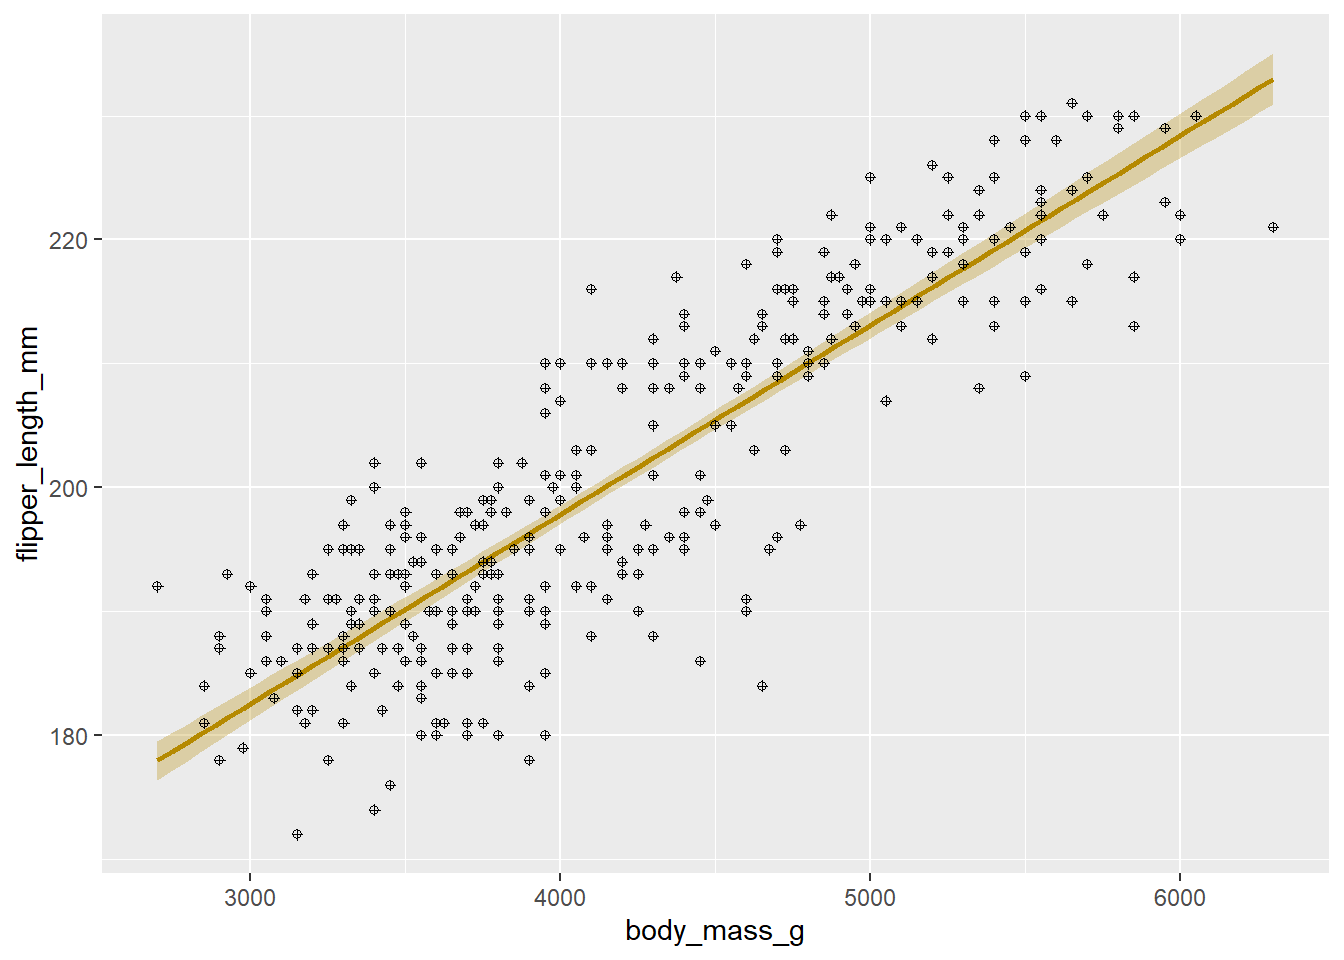
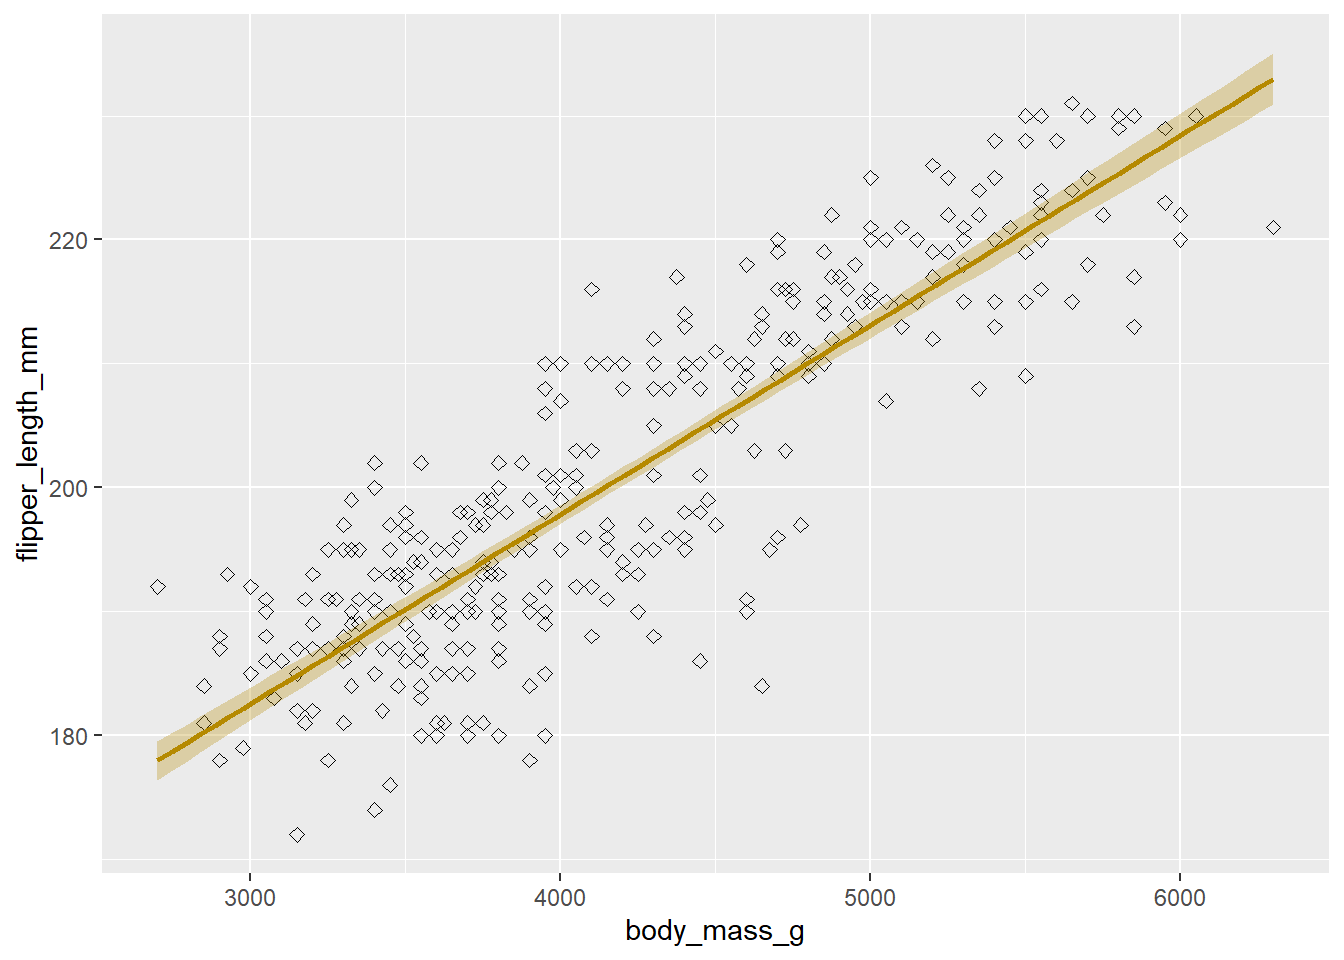
Built site for gh-pages

diff --git a/plotting.html b/plotting.html
@@ -383,6 +383,9 @@ pre > code.sourceCode > span > a:first-child::before { text-decoration: underlin
   <li><a href="#layer-1-the-data" id="toc-layer-1-the-data" class="nav-link" data-scroll-target="#layer-1-the-data">Layer 1: the data</a></li>
   <li><a href="#layer-2-the-geometries" id="toc-layer-2-the-geometries" class="nav-link" data-scroll-target="#layer-2-the-geometries">Layer 2: the geometries</a></li>
   <li><a href="#layer-3-the-scaling" id="toc-layer-3-the-scaling" class="nav-link" data-scroll-target="#layer-3-the-scaling">Layer 3: the scaling</a></li>
+  <li><a href="#layer-4-labels" id="toc-layer-4-labels" class="nav-link" data-scroll-target="#layer-4-labels">Layer 4: labels</a></li>
+  <li><a href="#layer-5-coordinates-and-transformations" id="toc-layer-5-coordinates-and-transformations" class="nav-link" data-scroll-target="#layer-5-coordinates-and-transformations">Layer 5: coordinates and transformations</a></li>
+  <li><a href="#layer-6-theme" id="toc-layer-6-theme" class="nav-link" data-scroll-target="#layer-6-theme">Layer 6: theme</a></li>
   </ul></li>
   </ul>
 </nav>
@@ -478,8 +481,8 @@ pre > code.sourceCode > span > a:first-child::before { text-decoration: underlin
 <summary>Answer</summary>
 <div class="sourceCode cell-code" id="cb5"><pre class="sourceCode numberSource r number-lines code-with-copy"><code class="sourceCode r"><span id="cb5-1"><a href="#cb5-1"></a><span class="fu">ggplot</span>(penguins, <span class="fu">aes</span>(<span class="at">x =</span> body_mass_g, <span class="at">y =</span> flipper_length_mm)) <span class="sc">+</span></span>
 <span id="cb5-2"><a href="#cb5-2"></a>    <span class="co"># Geometries</span></span>
-<span id="cb5-3"><a href="#cb5-3"></a>    <span class="fu">geom_smooth</span>(<span class="at">method =</span> <span class="st">"lm"</span>, <span class="at">formula =</span> <span class="st">"y ~ x"</span>, <span class="at">colour =</span> <span class="st">"#B58900"</span>, <span class="at">fill =</span> <span class="st">"#B58900"</span>, <span class="at">alpha =</span> <span class="fl">0.3</span>) <span class="sc">+</span></span>
-<span id="cb5-4"><a href="#cb5-4"></a>    <span class="fu">geom_point</span>(<span class="at">shape =</span> <span class="dv">10</span>)</span></code><button title="Copy to Clipboard" class="code-copy-button"><i class="bi"></i></button></pre></div>
+<span id="cb5-3"><a href="#cb5-3"></a>    <span class="fu">geom_point</span>(<span class="at">shape =</span> <span class="dv">5</span>) <span class="sc">+</span></span>
+<span id="cb5-4"><a href="#cb5-4"></a>    <span class="fu">geom_smooth</span>(<span class="at">method =</span> <span class="st">"lm"</span>, <span class="at">formula =</span> <span class="st">"y ~ x"</span>, <span class="at">colour =</span> <span class="st">"#B58900"</span>, <span class="at">fill =</span> <span class="st">"#B58900"</span>, <span class="at">alpha =</span> <span class="fl">0.3</span>) </span></code><button title="Copy to Clipboard" class="code-copy-button"><i class="bi"></i></button></pre></div>
 </details>
 <div class="cell-output cell-output-stderr">
 <pre><code>Warning: Removed 2 rows containing non-finite outside the scale range
@@ -521,15 +524,15 @@ Note
 <summary>Answer</summary>
 <div class="sourceCode cell-code" id="cb8"><pre class="sourceCode numberSource r number-lines code-with-copy"><code class="sourceCode r"><span id="cb8-1"><a href="#cb8-1"></a><span class="fu">ggplot</span>(penguins, <span class="fu">aes</span>(<span class="at">x =</span> body_mass_g, <span class="at">y =</span> flipper_length_mm)) <span class="sc">+</span></span>
 <span id="cb8-2"><a href="#cb8-2"></a>    <span class="co"># Geometries</span></span>
-<span id="cb8-3"><a href="#cb8-3"></a>    <span class="fu">geom_smooth</span>(<span class="at">method =</span> <span class="st">"lm"</span>, <span class="at">formula =</span> <span class="st">"y ~ x"</span>, <span class="at">colour =</span> <span class="st">"#B58900"</span>, <span class="at">fill =</span> <span class="st">"#B58900"</span>, <span class="at">alpha =</span> <span class="fl">0.3</span>) <span class="sc">+</span></span>
-<span id="cb8-4"><a href="#cb8-4"></a>    <span class="fu">geom_point</span>(<span class="at">shape =</span> <span class="dv">10</span>) <span class="sc">+</span></span>
+<span id="cb8-3"><a href="#cb8-3"></a>    <span class="fu">geom_point</span>(<span class="at">shape =</span> <span class="dv">5</span>) <span class="sc">+</span></span>
+<span id="cb8-4"><a href="#cb8-4"></a>    <span class="fu">geom_smooth</span>(<span class="at">method =</span> <span class="st">"lm"</span>, <span class="at">formula =</span> <span class="st">"y ~ x"</span>, <span class="at">colour =</span> <span class="st">"#B58900"</span>, <span class="at">fill =</span> <span class="st">"#B58900"</span>, <span class="at">alpha =</span> <span class="fl">0.3</span>) <span class="sc">+</span></span>
 <span id="cb8-5"><a href="#cb8-5"></a>    <span class="co"># Scaling</span></span>
 <span id="cb8-6"><a href="#cb8-6"></a>    <span class="fu">scale_x_continuous</span>(<span class="at">name =</span> <span class="st">"Body mass (grams)"</span>,</span>
 <span id="cb8-7"><a href="#cb8-7"></a>                       <span class="at">limits =</span> <span class="fu">c</span>(<span class="dv">2500</span>, <span class="dv">6500</span>),</span>
 <span id="cb8-8"><a href="#cb8-8"></a>                       <span class="at">breaks =</span> <span class="fu">seq</span>(<span class="dv">2500</span>, <span class="dv">6500</span>, <span class="dv">500</span>),</span>
 <span id="cb8-9"><a href="#cb8-9"></a>                       <span class="at">labels =</span> <span class="fu">prettyNum</span>(<span class="fu">seq</span>(<span class="dv">2500</span>, <span class="dv">6500</span>, <span class="dv">500</span>), <span class="at">big.mark =</span> <span class="st">","</span>)) <span class="sc">+</span></span>
 <span id="cb8-10"><a href="#cb8-10"></a>    <span class="fu">scale_y_continuous</span>(<span class="at">name =</span> <span class="st">"Flipper length (millimeters)"</span>,</span>
-<span id="cb8-11"><a href="#cb8-11"></a>                       <span class="at">limits =</span> <span class="fu">c</span>(<span class="dv">150</span>, <span class="dv">250</span>),</span>
+<span id="cb8-11"><a href="#cb8-11"></a>                       <span class="at">limits =</span> <span class="fu">c</span>(<span class="dv">170</span>, <span class="dv">240</span>),</span>
 <span id="cb8-12"><a href="#cb8-12"></a>                       <span class="at">breaks =</span> <span class="fu">seq</span>(<span class="dv">170</span>, <span class="dv">240</span>, <span class="dv">10</span>))                     </span></code><button title="Copy to Clipboard" class="code-copy-button"><i class="bi"></i></button></pre></div>
 </details>
 <div class="cell-output cell-output-stderr">
@@ -549,6 +552,52 @@ Note
 </div>
 </div>
 <p>In the scale functions, we can give the name of the axis, the limits of the axis, at which points there should be ticks (<code>breaks</code>), and the labels given to each tick.</p>
+</section>
+<section id="layer-4-labels" class="level3">
+<h3 class="anchored" data-anchor-id="layer-4-labels">Layer 4: labels</h3>
+<p>In the next layer, we will apply labels to the plot, which includes the title, subtitle, axes labels, and legends.</p>
+<p>For the axes labels, we can use <code>xlab()</code> and <code>ylab()</code> respectively. We won’t need these as we specified the name already in the scaling function, but they might be useful if you do not need the scale function. The title can be specified using the <code>ggtitle()</code> function, which also allows you to specify a subtitle. Alternatively, this can be done through the <code>labs()</code> function, which allows much more control, such as a tag (for multipanel labels where you want to tag A, B, C, etc.), a caption, and alt text (for accessibility purposes).</p>
+<p>For the plot we’re building, we will aply a title and a subtitle.</p>
+<div class="cell">
+<details class="code-fold">
+<summary>Answer</summary>
+<div class="sourceCode cell-code" id="cb11"><pre class="sourceCode numberSource r number-lines code-with-copy"><code class="sourceCode r"><span id="cb11-1"><a href="#cb11-1"></a><span class="fu">ggplot</span>(penguins, <span class="fu">aes</span>(<span class="at">x =</span> body_mass_g, <span class="at">y =</span> flipper_length_mm)) <span class="sc">+</span></span>
+<span id="cb11-2"><a href="#cb11-2"></a>    <span class="co"># Geometries</span></span>
+<span id="cb11-3"><a href="#cb11-3"></a>    <span class="fu">geom_point</span>(<span class="at">shape =</span> <span class="dv">5</span>) <span class="sc">+</span></span>
+<span id="cb11-4"><a href="#cb11-4"></a>    <span class="fu">geom_smooth</span>(<span class="at">method =</span> <span class="st">"lm"</span>, <span class="at">formula =</span> <span class="st">"y ~ x"</span>, <span class="at">colour =</span> <span class="st">"#B58900"</span>, <span class="at">fill =</span> <span class="st">"#B58900"</span>, <span class="at">alpha =</span> <span class="fl">0.3</span>) <span class="sc">+</span></span>
+<span id="cb11-5"><a href="#cb11-5"></a>    <span class="co"># Scaling</span></span>
+<span id="cb11-6"><a href="#cb11-6"></a>    <span class="fu">scale_x_continuous</span>(<span class="at">name =</span> <span class="st">"Body mass (grams)"</span>,</span>
+<span id="cb11-7"><a href="#cb11-7"></a>                       <span class="at">limits =</span> <span class="fu">c</span>(<span class="dv">2500</span>, <span class="dv">6500</span>),</span>
+<span id="cb11-8"><a href="#cb11-8"></a>                       <span class="at">breaks =</span> <span class="fu">seq</span>(<span class="dv">2500</span>, <span class="dv">6500</span>, <span class="dv">500</span>),</span>
+<span id="cb11-9"><a href="#cb11-9"></a>                       <span class="at">labels =</span> <span class="fu">prettyNum</span>(<span class="fu">seq</span>(<span class="dv">2500</span>, <span class="dv">6500</span>, <span class="dv">500</span>), <span class="at">big.mark =</span> <span class="st">","</span>)) <span class="sc">+</span></span>
+<span id="cb11-10"><a href="#cb11-10"></a>    <span class="fu">scale_y_continuous</span>(<span class="at">name =</span> <span class="st">"Flipper length (millimeters)"</span>,</span>
+<span id="cb11-11"><a href="#cb11-11"></a>                       <span class="at">limits =</span> <span class="fu">c</span>(<span class="dv">170</span>, <span class="dv">240</span>),</span>
+<span id="cb11-12"><a href="#cb11-12"></a>                       <span class="at">breaks =</span> <span class="fu">seq</span>(<span class="dv">170</span>, <span class="dv">240</span>, <span class="dv">10</span>)) <span class="sc">+</span></span>
+<span id="cb11-13"><a href="#cb11-13"></a>    <span class="co"># Labels</span></span>
+<span id="cb11-14"><a href="#cb11-14"></a>    <span class="fu">ggtitle</span>(<span class="st">"Relation between penguin body mass and flipper length"</span>, <span class="at">subtitle =</span> <span class="st">"Data from the Palmer Archipelago penguins"</span>)                 </span></code><button title="Copy to Clipboard" class="code-copy-button"><i class="bi"></i></button></pre></div>
+</details>
+<div class="cell-output cell-output-stderr">
+<pre><code>Warning: Removed 2 rows containing non-finite outside the scale range
+(`stat_smooth()`).</code></pre>
+</div>
+<div class="cell-output cell-output-stderr">
+<pre><code>Warning: Removed 2 rows containing missing values or values outside the scale range
+(`geom_point()`).</code></pre>
+</div>
+<div class="cell-output-display">
+<div>
+<figure class="figure">
+<p><img src="plotting_files/figure-html/unnamed-chunk-6-1.png" class="img-fluid figure-img" width="672"></p>
+</figure>
+</div>
+</div>
+</div>
+</section>
+<section id="layer-5-coordinates-and-transformations" class="level3">
+<h3 class="anchored" data-anchor-id="layer-5-coordinates-and-transformations">Layer 5: coordinates and transformations</h3>
+</section>
+<section id="layer-6-theme" class="level3">
+<h3 class="anchored" data-anchor-id="layer-6-theme">Layer 6: theme</h3>
 
 
 </section>
